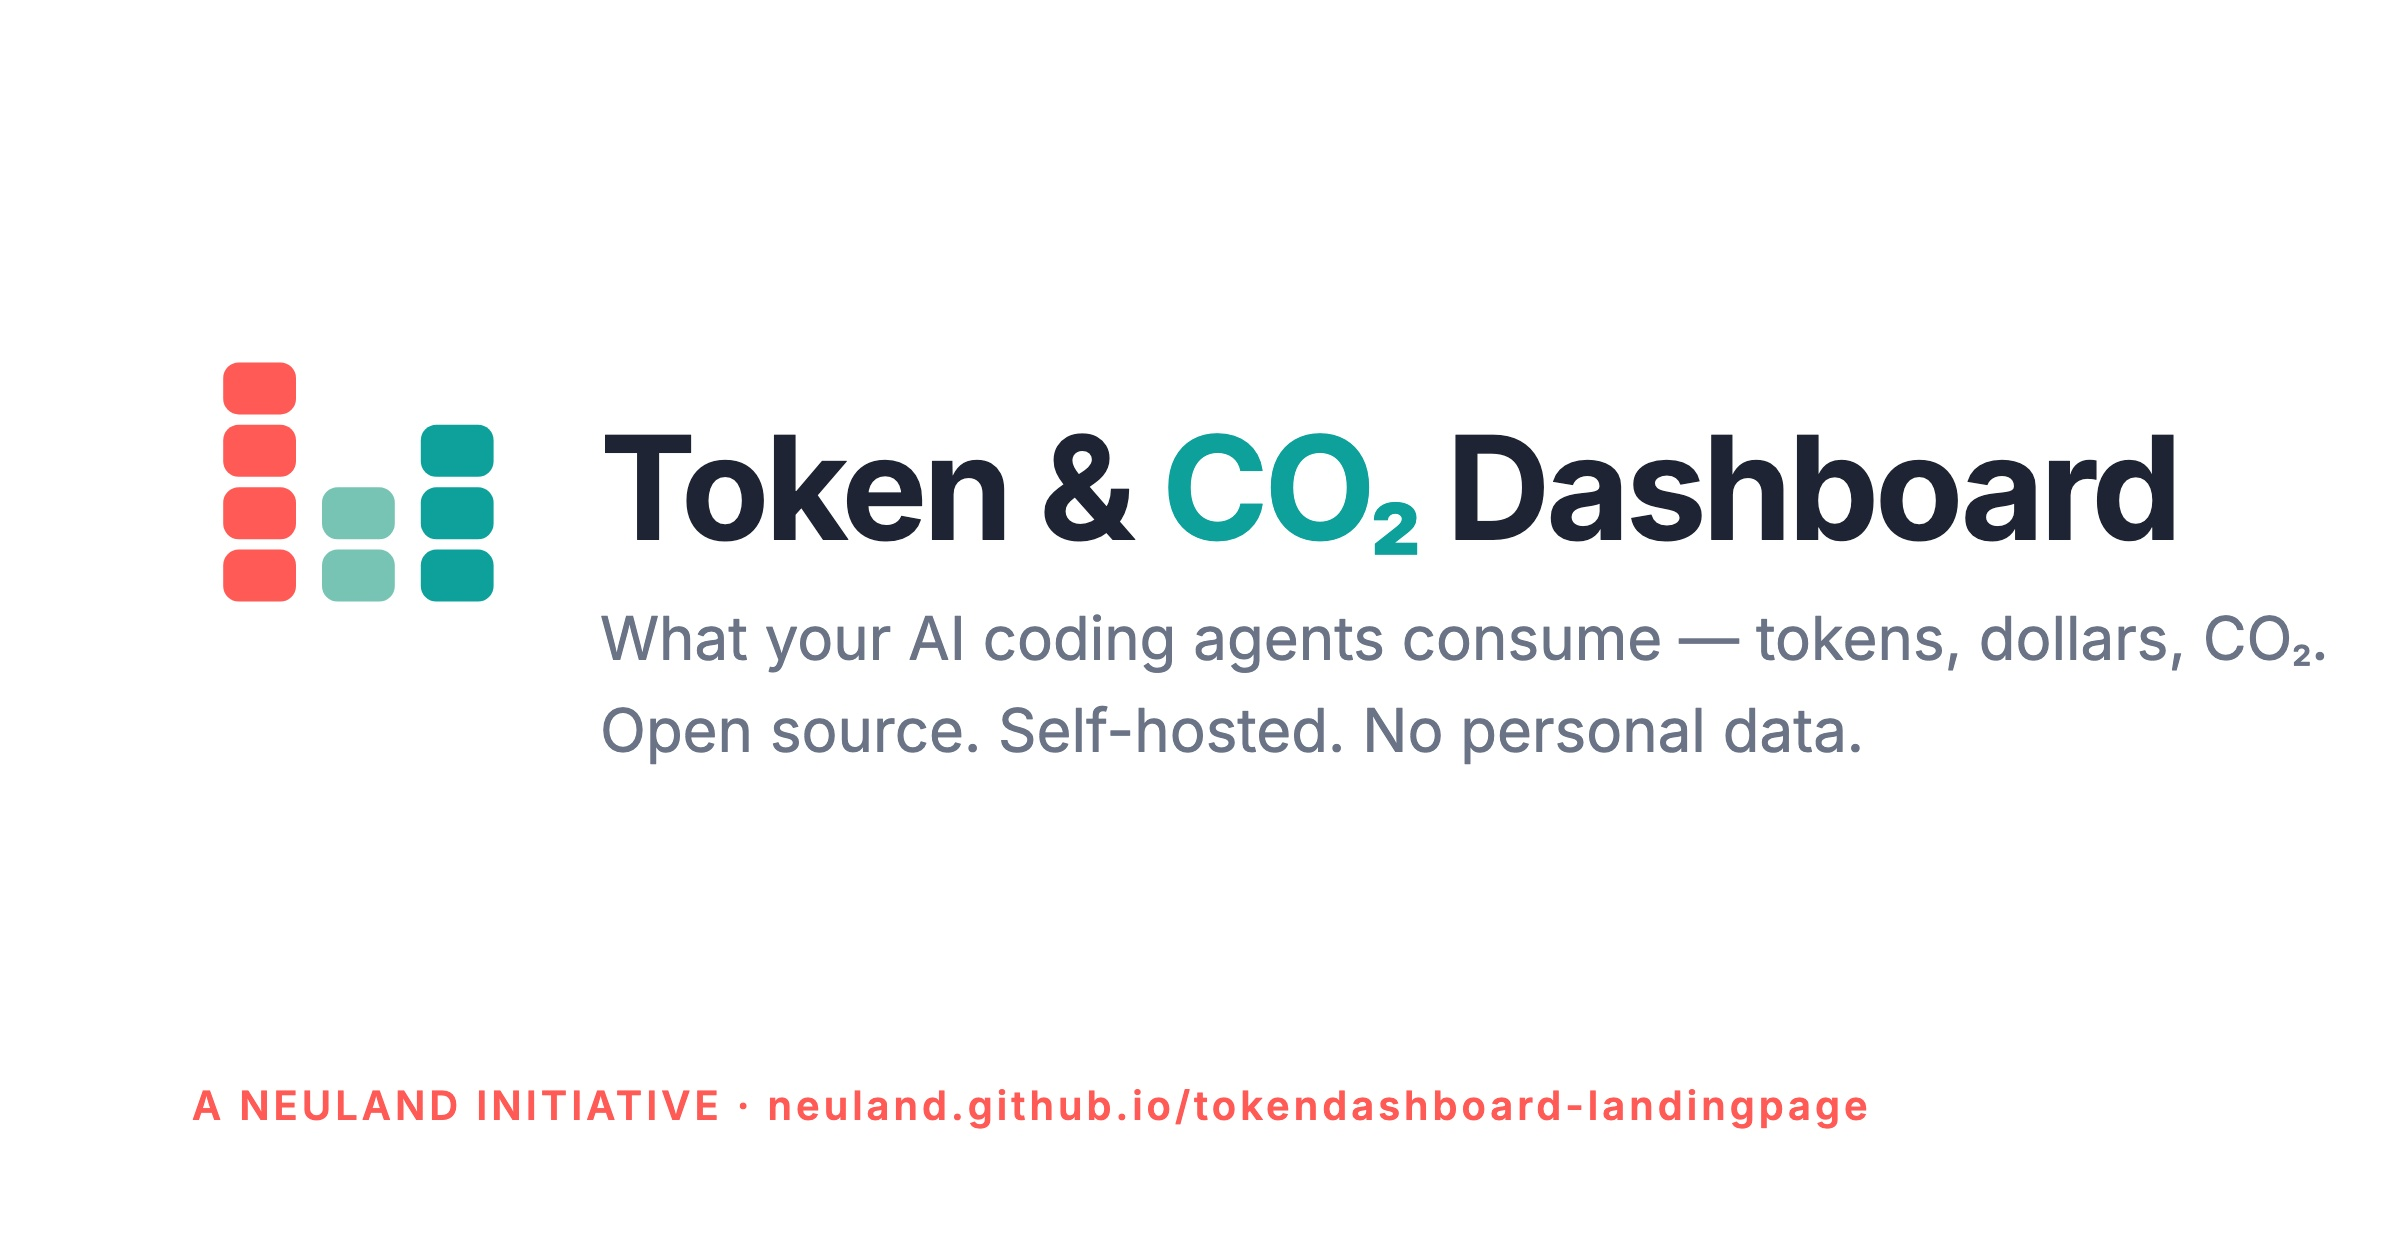
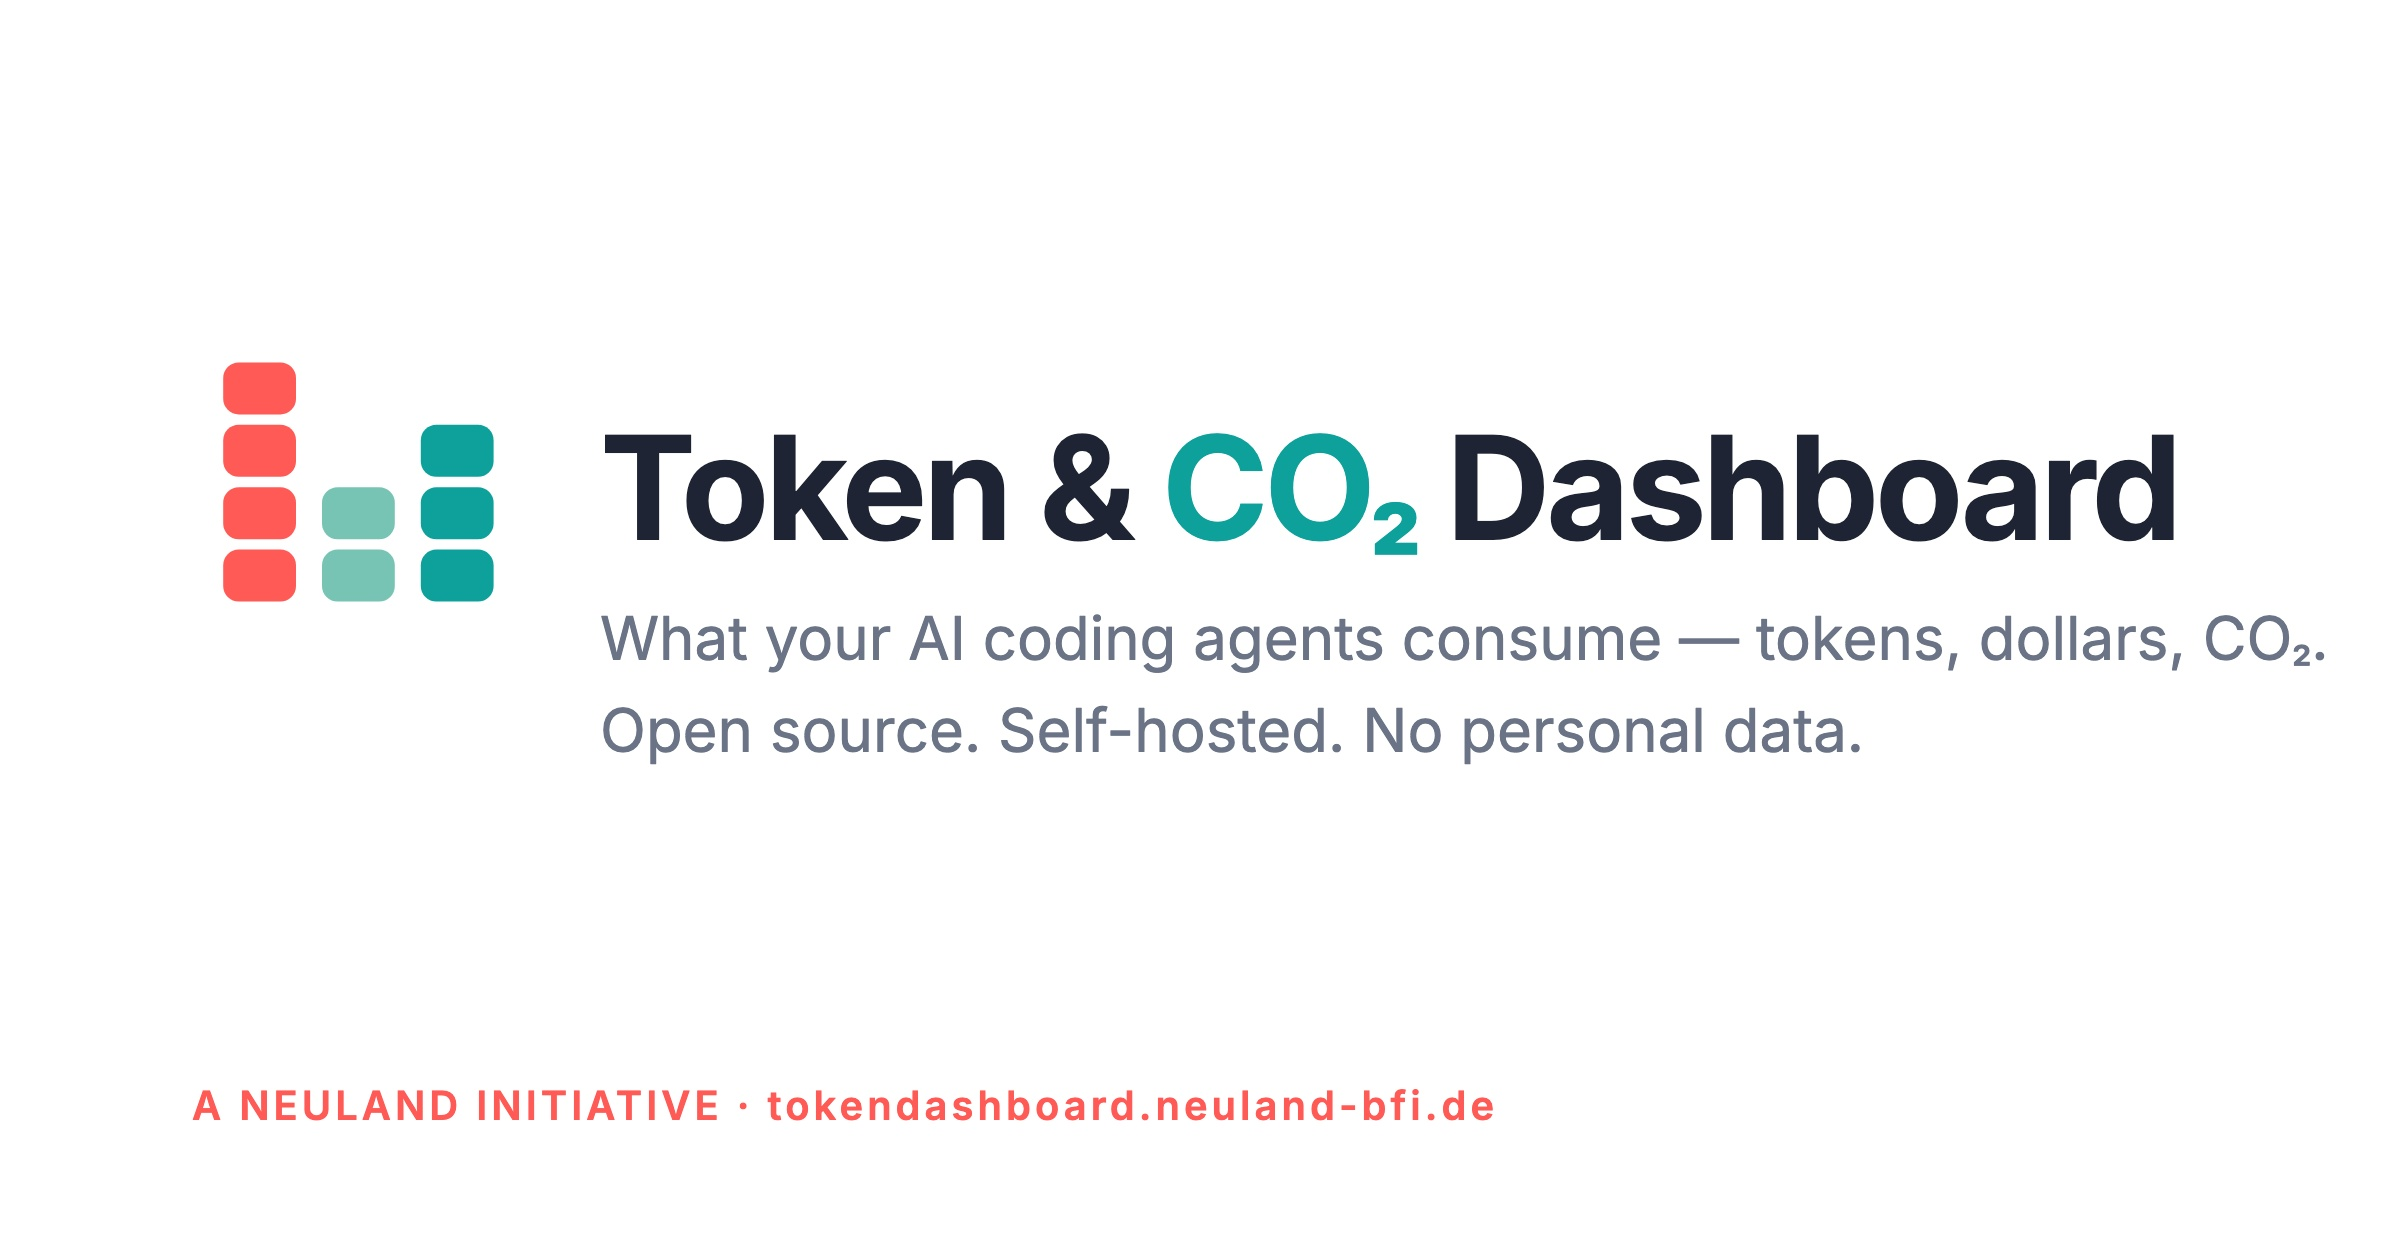
Serve the site from the custom domain tokendashboard.neuland-bfi.de
Base path moves to the root, CNAME keeps the domain across deployments,
social card and README name the new address.

Changed region(s): [[0.3125, 0.8667, 0.7812, 0.8976]]

diff --git a/README.md b/README.md
@@ -1,7 +1,7 @@
 # Token & CO₂ Dashboard — website
 
 The central documentation site for the neuland Token & CO₂ Dashboard, published on GitHub
-Pages at <https://neuland.github.io/tokendashboard-landingpage/>. It explains how the five repositories
+Pages at <https://tokendashboard.neuland-bfi.de/>. It explains how the five repositories
 fit together, walks through the dashboard with screenshots, documents the concepts behind
 the numbers, and records the domain decisions behind them — how things are calculated, what
 is left out, what is stored — and why.
@@ -23,7 +23,7 @@ Requires Node.js ≥ 24 (see `.nvmrc`).
 
 ```bash
 npm install
-npm run dev       # http://localhost:4321/tokendashboard-landingpage/
+npm run dev       # http://localhost:4321/
 npm run build     # static site into dist/
 npm run preview   # serve dist/ locally
 npm run check     # astro check (type-checks .astro files)
@@ -96,8 +96,9 @@ Pushing to `main` runs [`.github/workflows/deploy.yml`](.github/workflows/deploy
 builds the site with `withastro/action` and publishes it with `actions/deploy-pages`. In the
 repository settings, *Pages → Source* must be set to **GitHub Actions** once.
 
-The site is configured for `https://neuland.github.io/tokendashboard-landingpage/`. A fork under another
-name builds with
+The site is configured for the custom domain `https://tokendashboard.neuland-bfi.de/` (set in the
+repository's Pages settings; `public/CNAME` keeps it). A deployment as a plain project site
+builds with
 
 ```bash
 SITE_URL=https://<owner>.github.io SITE_BASE=/<repo>/ npm run build
